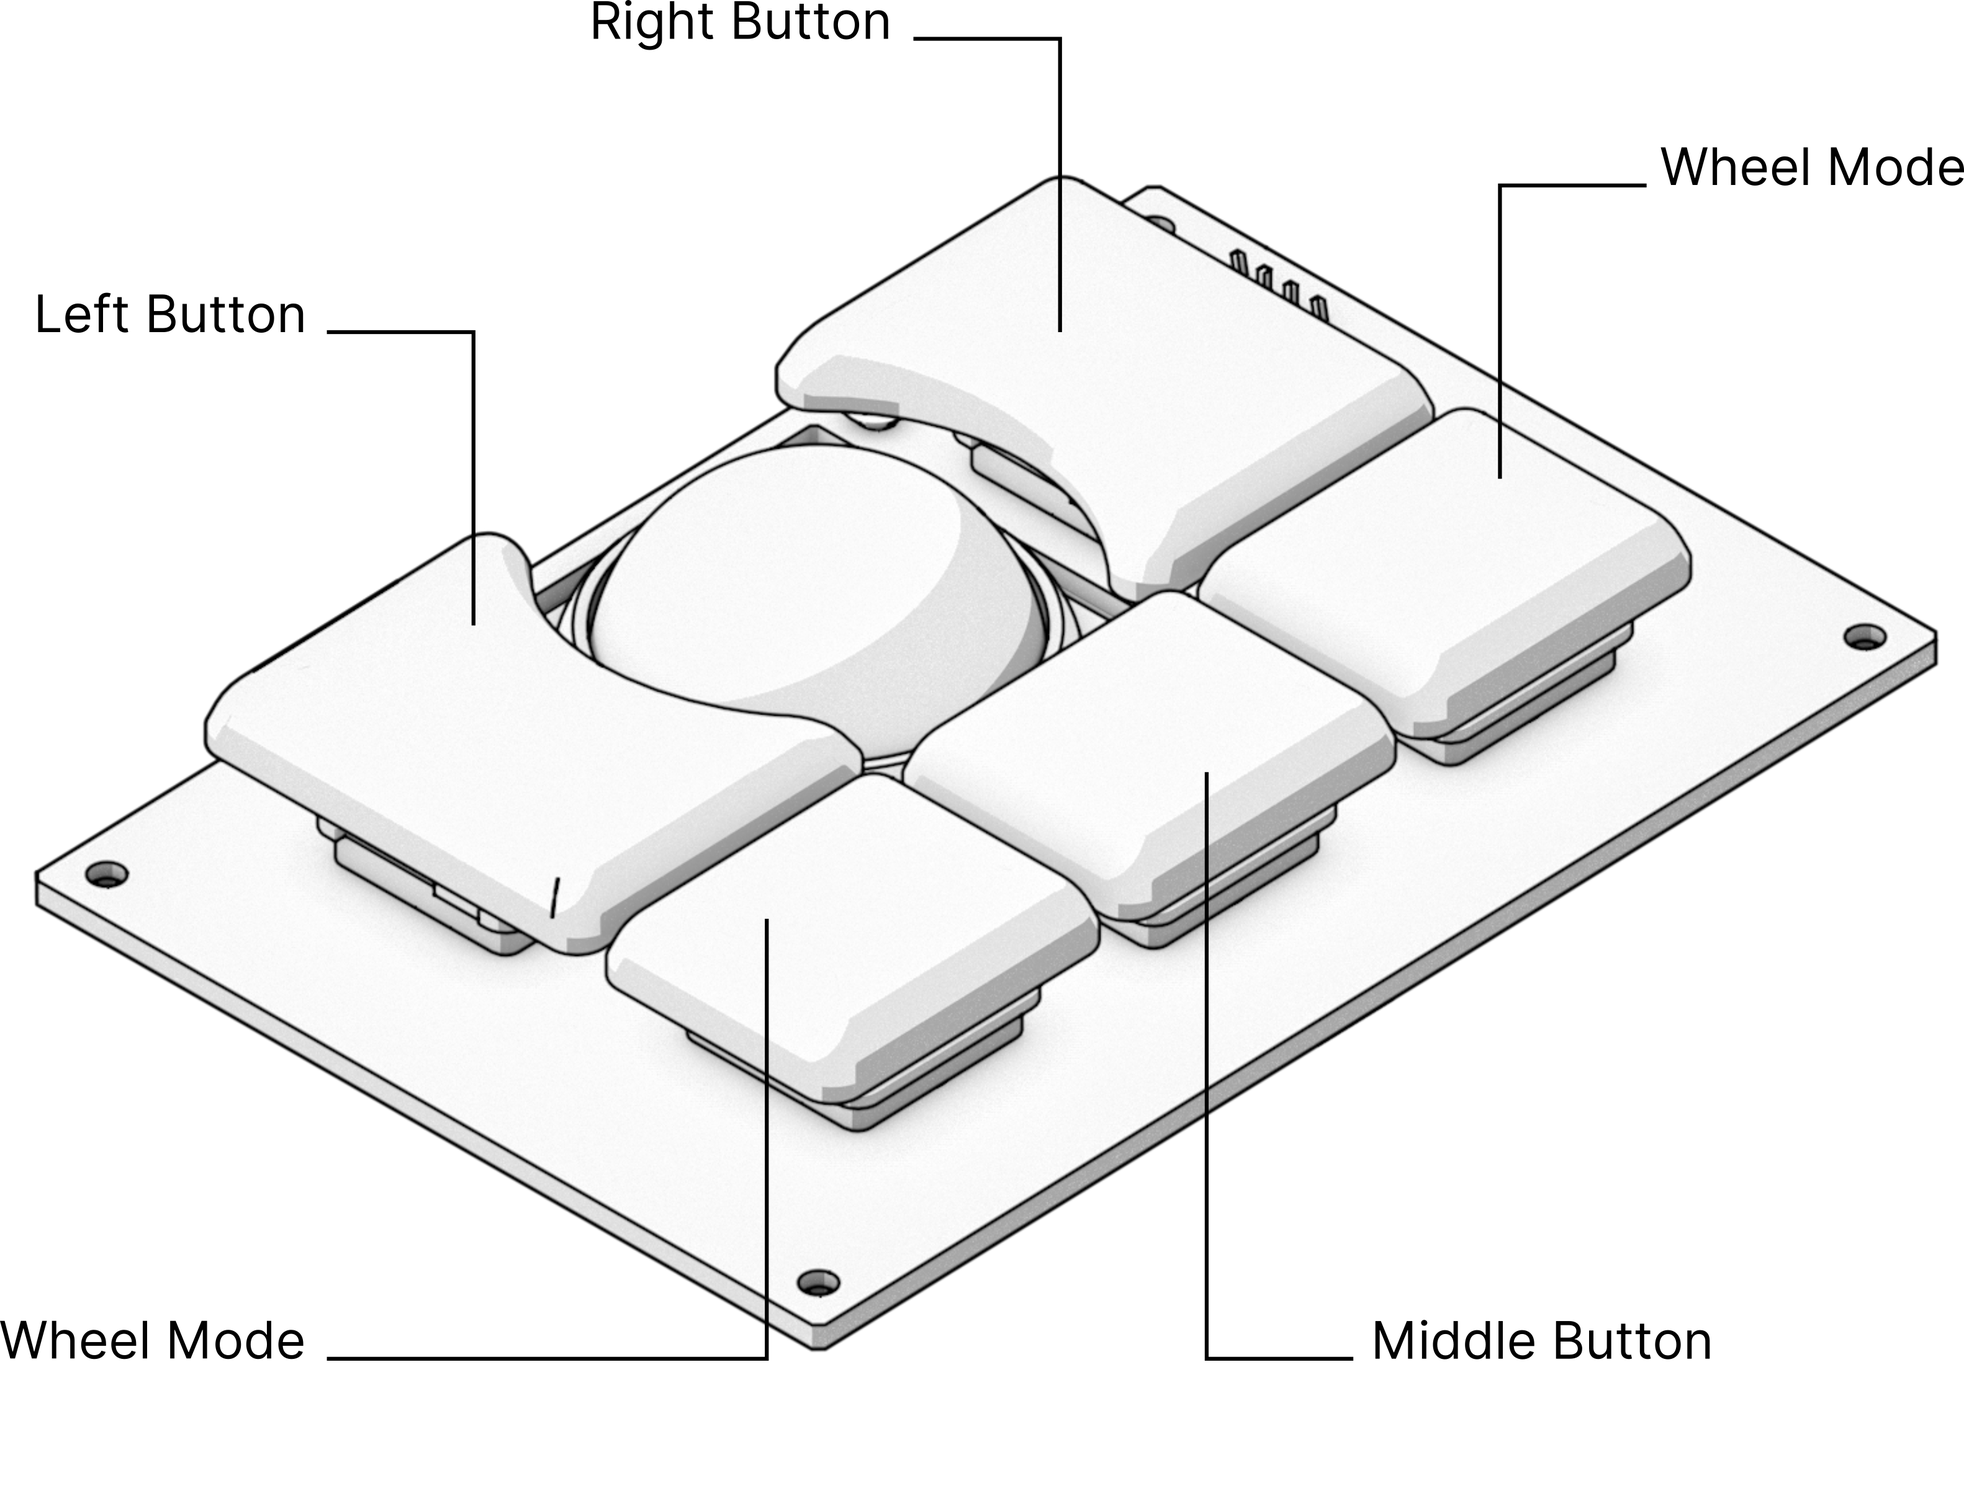
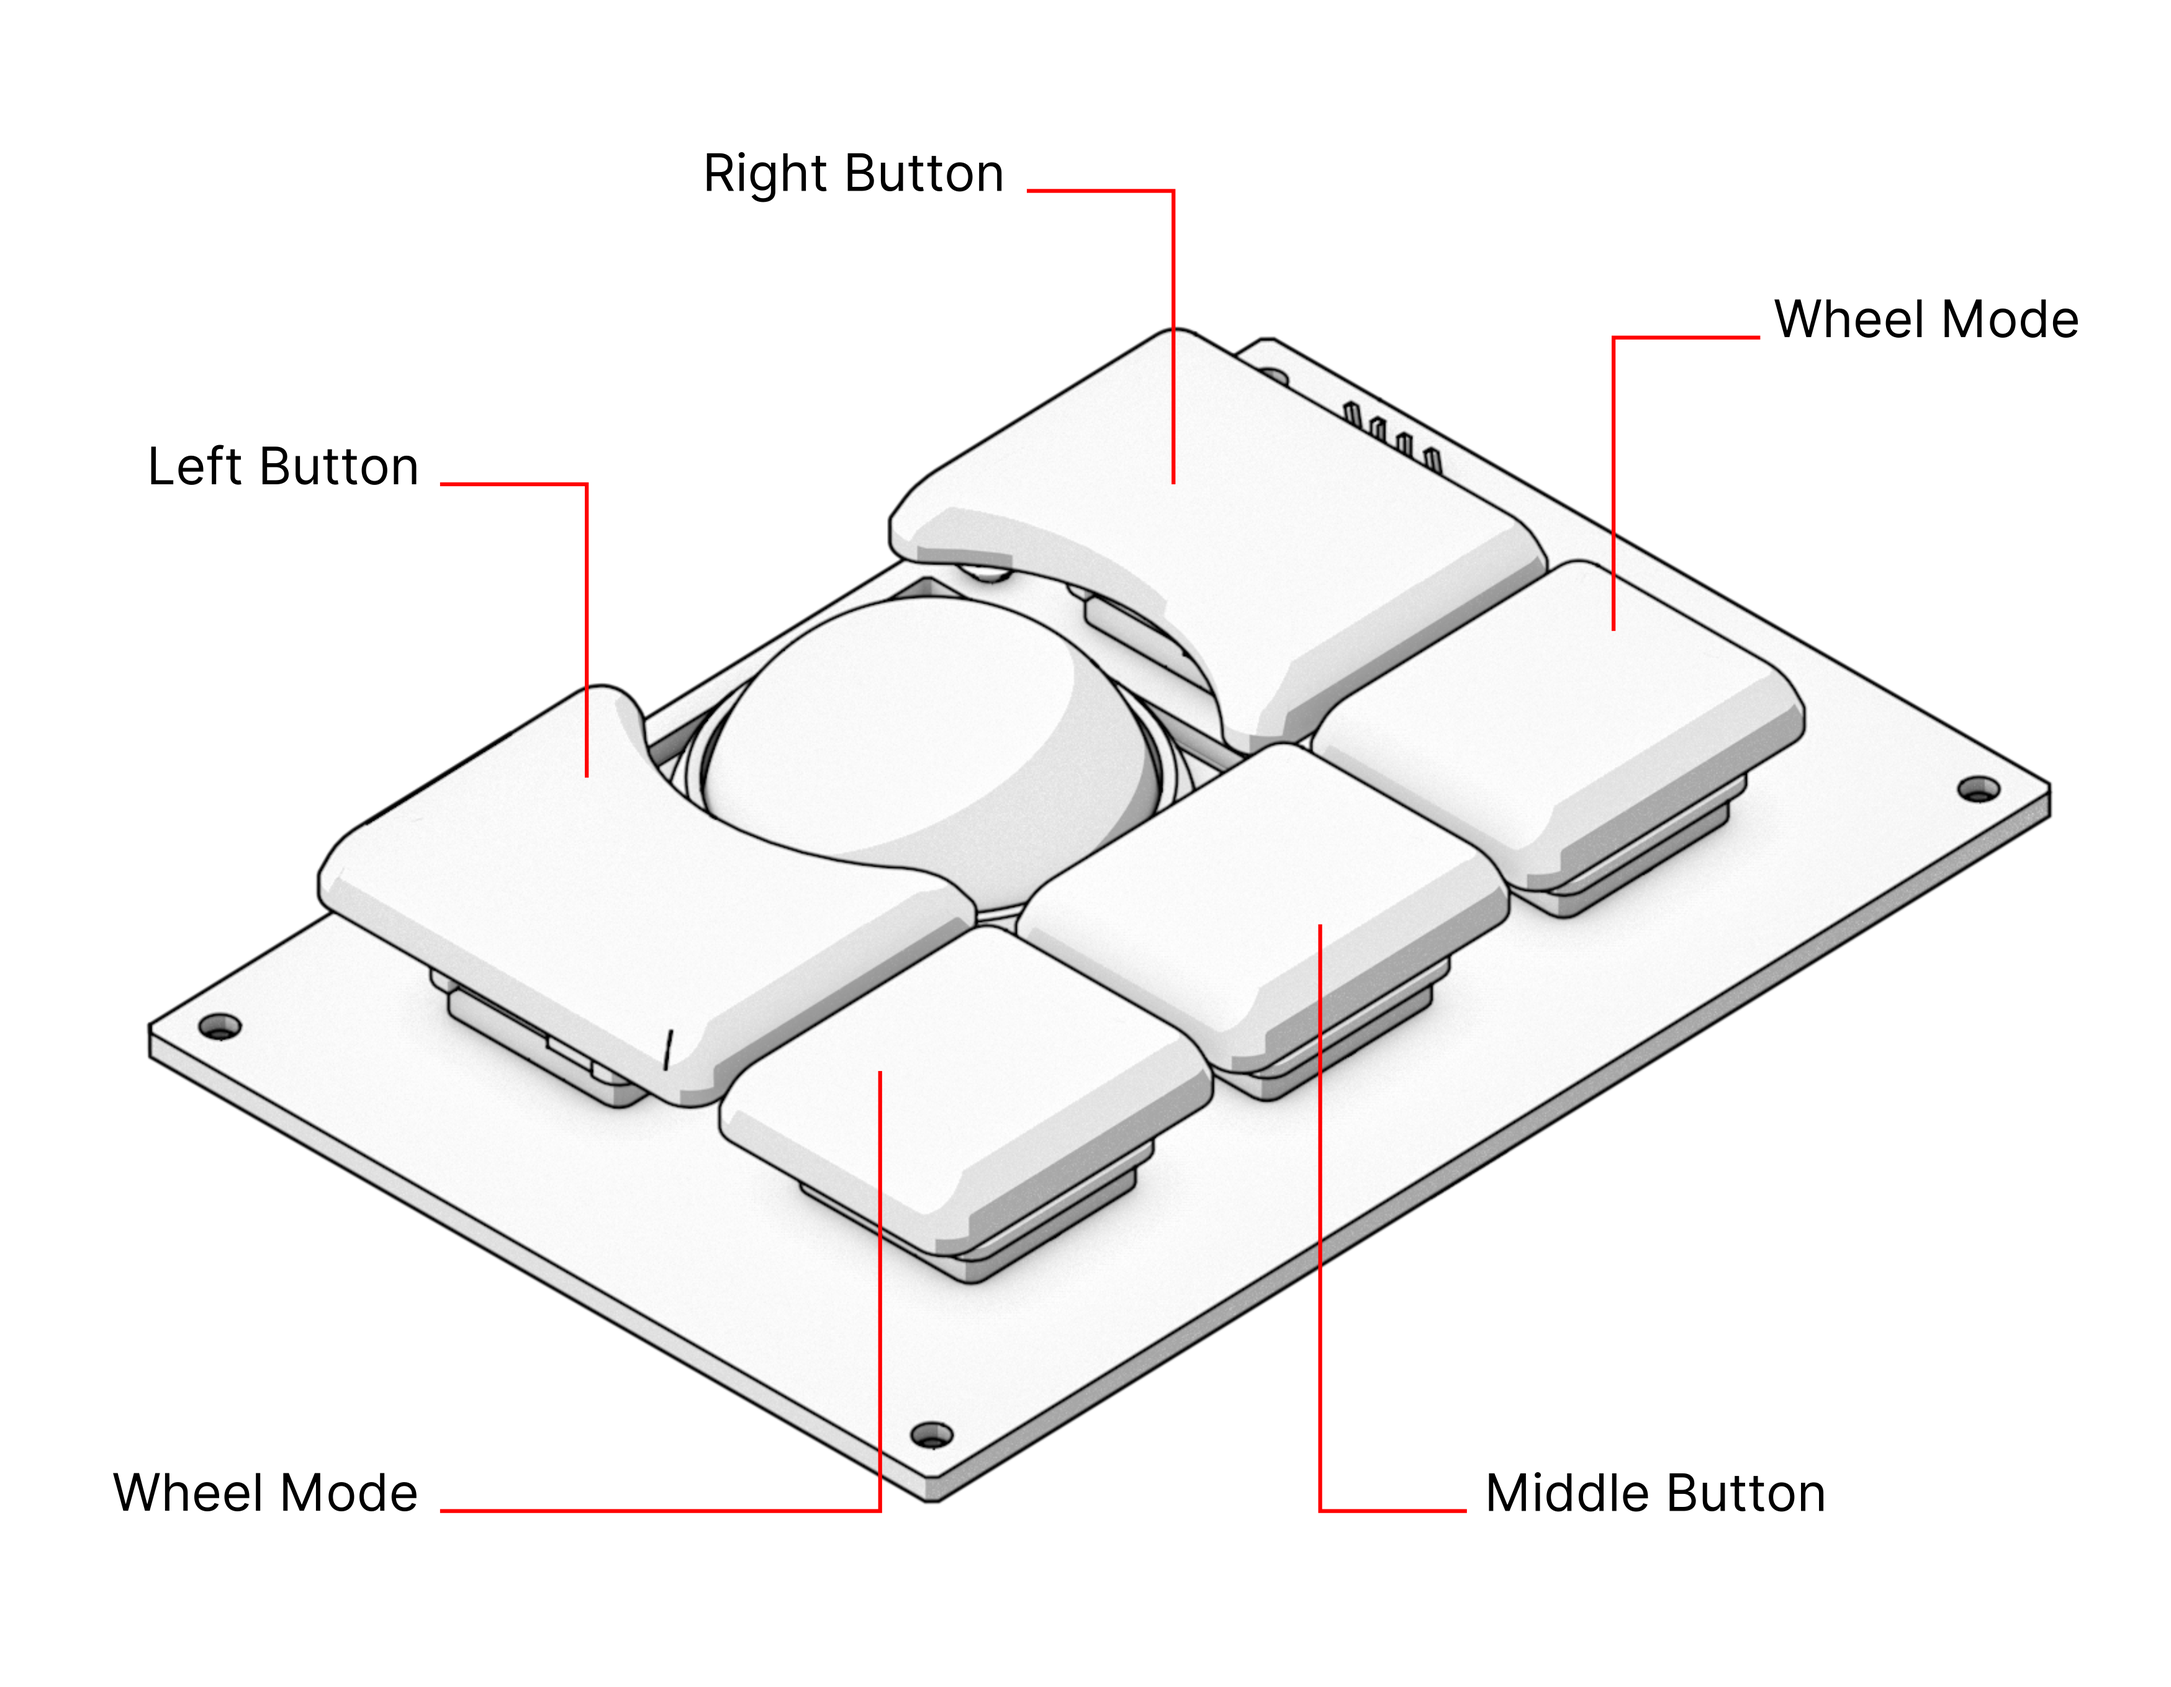
add first images for input, quickstart and polish the text

diff --git a/src/source/quickstart.rst b/src/source/quickstart.rst
@@ -1,41 +1,26 @@
 Quick Start
 ===========
 
-TODO:
-
-- Show how to open the bottom and connect the batteries (illustartions)
-- Review First boot / first steps
-
-Thank you for acquiring **MNT Reform**, a portable, open-source computer system.
-
 Step 1: Connect Batteries
 -------------------------
-For safety reasons, the battery cables are not connected by default. 
+.. image:: _static/illustrations/2t-callouts.png
 
-Remove the bottom lid and attach the battery cable plugs to the battery connectors on the motherboard, then reinstall the bottom lid.
+To prevent discharge during shipment, the battery cables are not connected by default. Unscrew the 10 bottom screws and remove the bottom lid. Attach the two battery cable plugs to the battery connectors on the motherboard, then reinstall the bottom lid.
 
 Step 2: Turn On
 ---------------
 Insert the included SD card into the slot on the left hand side of the device.
 
-To turn Reform on, press **Circle+1**. The Circle button is used for many system commands. Press and hold **Circle** to see a list of functions on Reform's OLED screen.
+.. image:: _static/illustrations/5t-callouts.png
 
-Step 3: Boot the Operating System
----------------------------------
-When powered on, Reform will boot the operating system on the included SD card. The kernel will show diagnostic information as it activates all the devices in the system, and you'll end up at the login prompt if everything is OK.
+To turn Reform on, press **Circle** and **1**. The **Circle** key is used for system control commands. Press and hold **Circle** to see a list of functions on the OLED screen embedded in the keyboard.
 
-To log in, enter *root* as the username at the prompt. There is no default password. To set a password, execute the following:
+Step 3: Log In
+--------------
+When powered on, the main processor will boot the operating system on the included SD card. The kernel will show diagnostic information as it activates all the devices in the system, and you will end up at the login prompt if everything is OK. To log in, enter *root* as the username at the prompt. There is no default password. To set a password, execute the following:
 
 .. code-block:: none
 
    passwd
 
-After the first login, enter the *reform-help* command. This will guide you through selecting a time zone, keyboard layout, and network configuration.
-
-To start the Sway graphical environment, type:
-
-.. code-block:: none
-
-   sway
-
-From here, you can begin installing software and using Reform. If you are new to the Debian GNU/Linux operating system, or Sway, please refer to the :ref:`Linux Basics` section to learn more. 
+From here, you can begin installing software and using MNT Reform. If you are new to the Debian GNU/Linux operating system, please refer to the :ref:`Linux Basics` section to learn more.

diff --git a/src/source/input.rst b/src/source/input.rst
@@ -1,21 +1,23 @@
 Input Devices
 =============
 
+Reform comes with a custom keyboard and either a trackball or a trackpad preinstalled. All of the input devices are modular and can be easily swapped in and out. They all connect via internal USB2.0 cables.
+
 Keyboard
 --------
+.. image:: _static/illustrations/5b-callouts.png
 
-TODO explain the rationale behind the layout.
-
-TODO explain the modifier keys.
+The layout of the MNT Reform keyboard is slightly unusual. We simplified the traditional typewriter-based layout so that the keyboard can be constructed using only two distinct key shapes (square and 1.5x). This removes the need for mechanical stabilizers for long keys and makes it easier to customize and swap keycaps to your liking. The biggest difference is the split spacebar: instead of one long key, there are two 1.5x wide space keys, with left and right Alt keys sandwiched between them. Because many advanced users remap the traditional Caps Lock key to a different function, we swapped Caps Lock for a Ctrl key. This makes the use of Ctrl key combinations more ergonomic. Next to the Ctrl key is a key with 3 dots (an ellipsis). This is normally the Menu key, but on the default Reform desktop, it is mapped to Compose (a key that allows you to generate Unicode symbols from Compose sequences). Lastly, Reform features an additional modifier key, the Hyper key, in the lower left. The idea is to let you assign this key to whatever function you require.
 
 Trackball
 ---------
-
 .. image:: _static/illustrations/6t-callouts.png
 
 The trackball works similar to a three-button mouse. Rolling the ball will push the cursor in the same direction. In addition to the standard three mouse buttons, the trackball also has two "Wheel Mode" buttons. Holding down either while moving the ball will scroll the currently focused content.
 
 Trackpad
 --------
+
+TODO trackpad illustration.
 
 TODO explain gestures.
